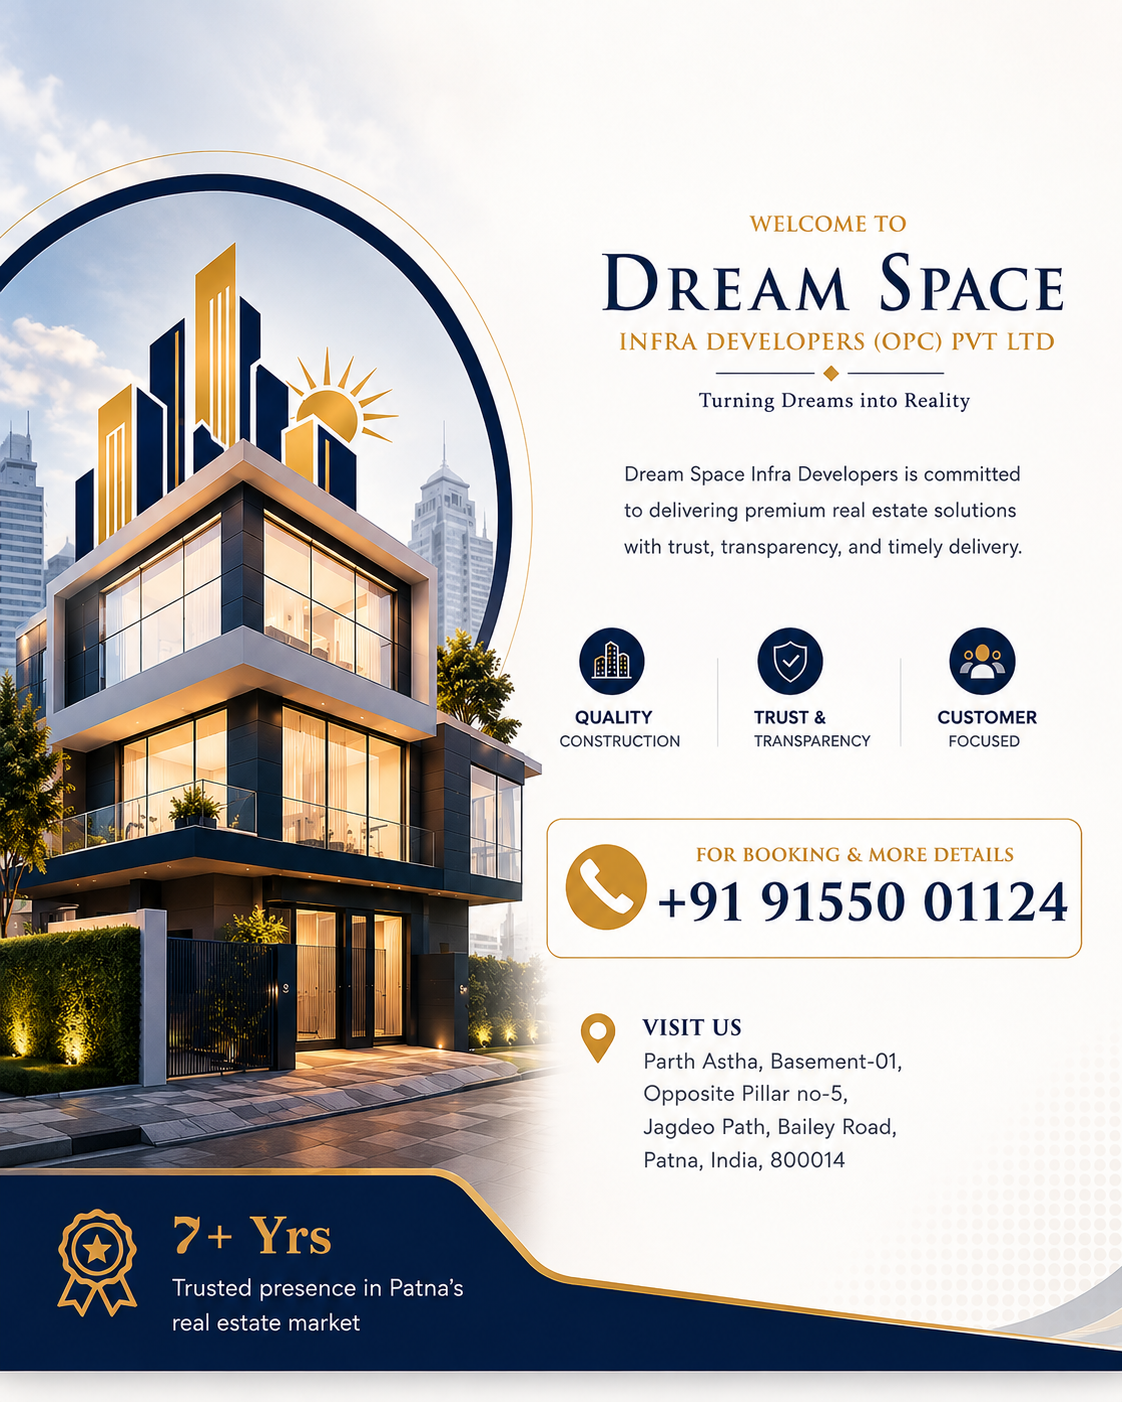
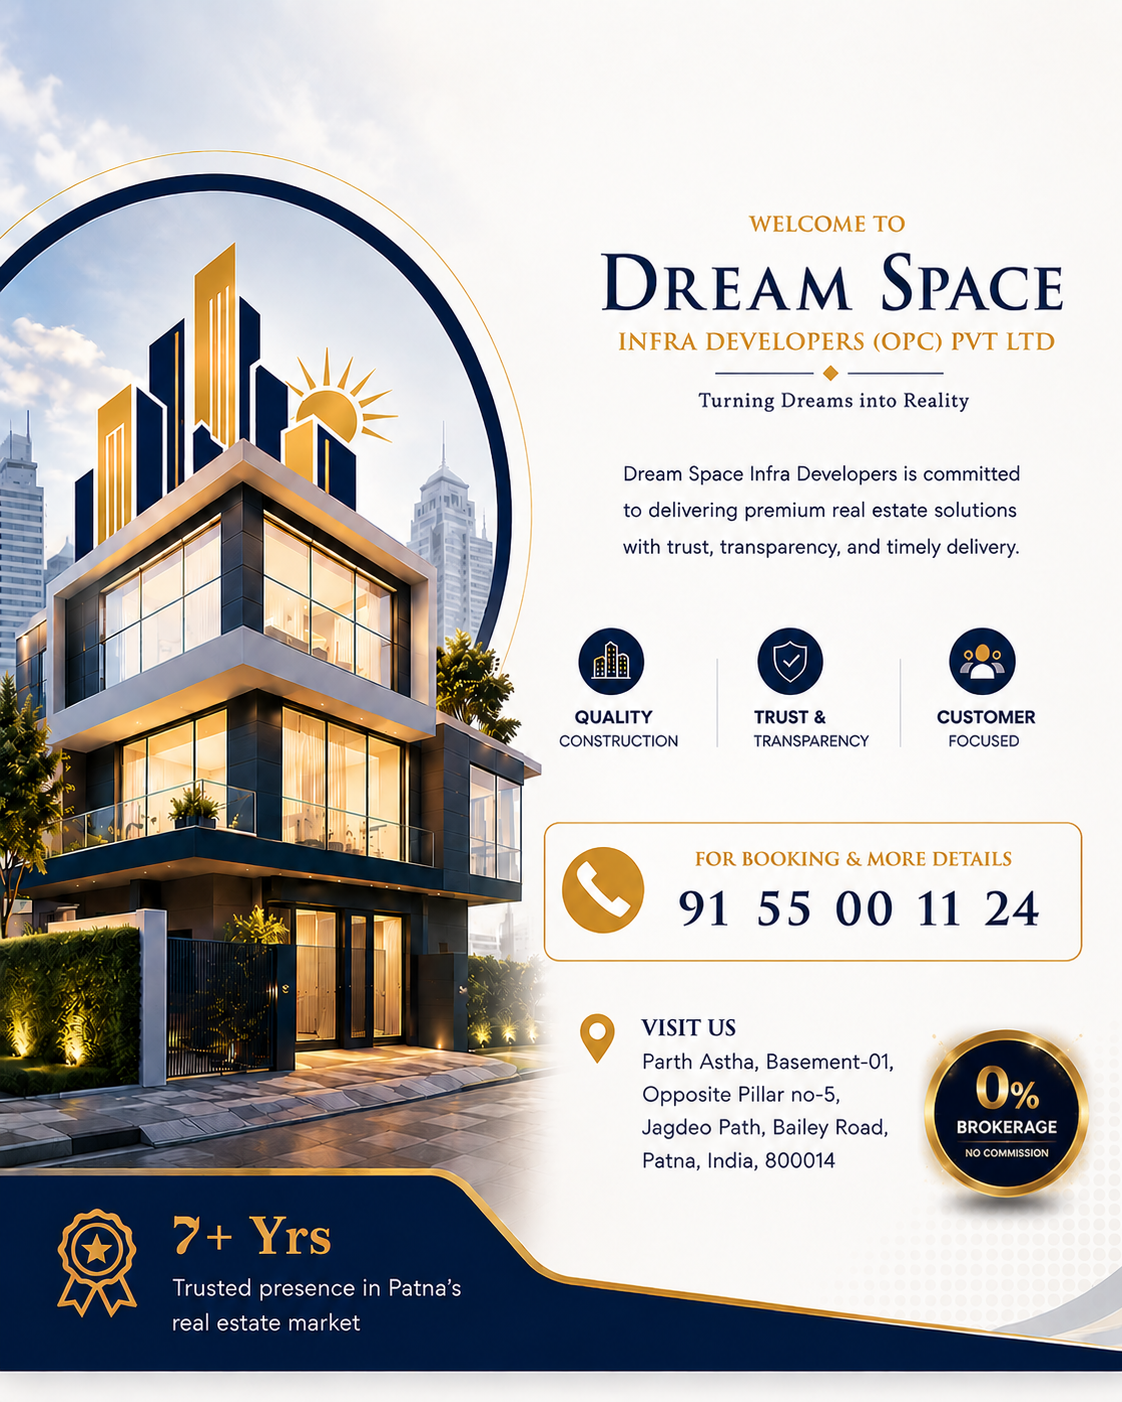
Adding Exclusive Partners

diff --git a/components/OurTeam.tsx b/components/OurTeam.tsx
@@ -7,18 +7,19 @@ export default function OurTeam() {
       name: "S.K Maurya",
       title: "Founder & CEO",
     },
-     {
-      id: 2,
-      avatar: "/team/team2.jpeg",
-      name: "John Sharma",
-      title: "Sales Head",
-    },
     {
-      id: 3,
+      id: 2,
       avatar: "/team/team3.jpeg",
       name: "Er. Satya Prakash",
       title: "Director",
     },
+     {
+      id: 3,
+      avatar: "/team/team2.jpeg",
+      name: "John Sharma",
+      title: "Sales Head",
+    },
+   
    
     {
       id: 4,
@@ -27,18 +28,48 @@ export default function OurTeam() {
       name: "Rahul Dev",
     },
   ];
+
+   const exclusive = [
+    {
+      id: 1,
+      avatar: "/exclusivepartners/emerald.jpg",
+      name: "Emerald Estates",
+      // title: "Founder & CEO",
+    },
+    {
+      id: 2,
+      avatar: "/exclusivepartners/infinity.png",
+      name: "Vastitude Construction LLP",
+      // title: "Director",
+    },
+      {
+      id: 3,
+      avatar:"/exclusivepartners/Sunrise.png",
+      name: "Sunrise Developers",
+      // title: "Director",
+    },
+   
+    // {
+    //   id: 4,
+    //   avatar: "/exclusivepartners/vedanta.jpg",
+    //   name: "Vedanta Homes",
+    //   // title: "Director",
+    // },
+     {
+      id: 5,
+      avatar: "/exclusivepartners/manorath.png",
+      name: "Manorath Construction",
+      // title: "Director",
+    },
+  ];
   return (
     <section className="w-full bg-[#faf9f6] px-5 py-20 md:px-10 lg:px-20">
       {" "}
       <div className="mx-auto max-w-7xl">
         {" "}
-        {/* Heading */}{" "}
         <div className="mb-14 text-center">
           {" "}
-          {/* <p className="mb-3 text-sm font-semibold uppercase tracking-[0.25em] text-[#b08a45]">
-            {" "}
-            Meet Our People{" "}
-          </p>{" "} */}
+         
           <h2 className="text-3xl font-semibold tracking-tight text-[#1c1c1c] md:text-5xl">
             {" "}
             Our Team{" "}
@@ -59,7 +90,63 @@ export default function OurTeam() {
               className="group flex flex-col items-center text-center"
             >
               {" "}
-              {/* Circle Image */}{" "}
+              <div className="relative mb-6">
+                {" "}
+                <div className="absolute -inset-2 rounded-full border border-[#b08a45]/30 transition-all duration-500 group-hover:rotate-6 group-hover:border-[#b08a45]" />{" "}
+                <div className="relative h-32 w-32 overflow-hidden rounded-full border-4 border-white shadow-lg md:h-40 md:w-40">
+                  {" "}
+                  <img
+                    src={member.avatar}
+                    alt={member.name}
+                    className="h-full w-full object-cover object-center transition-transform duration-500 group-hover:scale-110"
+                  />{" "}
+                </div>{" "}
+              </div>{" "}
+              {/* Name */}{" "}
+              <h3 className="text-base font-semibold text-[#1c1c1c] md:text-lg">
+                {" "}
+                {member.name}{" "}
+              </h3>{" "}
+              {/* Position */}{" "}
+              <p className="mt-1 text-sm font-medium text-[#b08a45]">
+                {" "}
+                {member.title}{" "}
+              </p>{" "}
+              {/* Small Line */}{" "}
+              <div className="mt-4 h-[2px] w-8 rounded-full bg-[#b08a45] transition-all duration-300 group-hover:w-14" />{" "}
+            </div>
+          ))}{" "}
+        </div>{" "}
+      </div>{" "}
+      
+
+
+      {/* -----------------------------------------------Exclusive partner  */}
+       <div className="mx-auto max-w-7xl">
+        {" "}
+        <div className="my-14 text-center">
+          {" "}
+         
+          <h2 className="text-3xl font-semibold tracking-tight text-[#1c1c1c] md:text-5xl">
+            {" "}
+            Exclusive Marketing Partners
+          </h2>{" "}
+          {/* <p className="mx-auto mt-4 max-w-2xl text-sm leading-6 text-gray-600 md:text-base">
+            {" "}
+            Meet the professionals behind Dream Space Infra Developers,
+            committed to making your property journey simple and
+            transparent.{" "}
+          </p>{" "} */}
+        </div>{" "}
+        {/* Team */}{" "}
+        <div className="grid grid-cols-2 gap-8 sm:grid-cols-2 md:grid-cols-4 md:gap-10">
+          {" "}
+          {exclusive.map((member) => (
+            <div
+              key={member.id}
+              className="group flex flex-col items-center text-center"
+            >
+              {" "}
               <div className="relative mb-6">
                 {" "}
                 <div className="absolute -inset-2 rounded-full border border-[#b08a45]/30 transition-all duration-500 group-hover:rotate-6 group-hover:border-[#b08a45]" />{" "}

diff --git a/app/page.tsx b/app/page.tsx
@@ -8,7 +8,6 @@ import { site } from "@/lib/site";
 import Policy from "@/components/Policy";
 import OurTeam from "@/components/OurTeam";
 
-
 export default function Home() {
   return (
     <main className="w-full min-w-0 overflow-x-clip">
@@ -24,41 +23,29 @@ export default function Home() {
         badgeLabel="Trusted presence in Patna's real estate market"
         eyebrow="Who We Are"
         heading="A trusted real estate company in Patna."
-        paragraph="Dream Space Infra Developers (OPC) Pvt Ltd is a trusted real estate marketing company dedicated to turning your dreams into reality. Whether you're searching for a sweet home to settle into, or a profitable property to invest in, we bring verified listings, honest guidance and end-to-end support to every deal."
+        paragraph="Dream Space Infra Developers Pvt Ltd की पूरी टीम हमेशा यह कोशिश करती है कि आपको बेहतर, भरोसेमंद और साफ-सुथरी Property Deal मिले।
+
+हमारा उद्देश्य सिर्फ Property बेचना नहीं, बल्कि आपकी जरूरत और बजट के अनुसार सही Property का सही विकल्प देना है।
+
+ हमारी सेवाएँ Dream Space Infra Developers Pvt Ltd की Policy है कि Customers से कोई Commission / Brokerage Charge नहीं लिया जाता।
+
+अगर आप Flat, Makan, Plot या Investment के लिए अच्छी और भरोसेमंद Deal तलाश रहे हैं, तो हमसे संपर्क करें।"
         features={[
-          "Residential & commercial property expertise",
-          "Curated properties across Patna",
-          "Professional support from enquiry to site visit",
-          "Customer-first & transparent property guidance",
+          "Flat & Apartment",
+          "Independent House / Makan",
+          "Residential & Commercial Plot",
+          "Property Investment",
+          "Best Property Deals in Patna"
         ]}
         ctaLabel="Talk to Our Team"
         ctaHref={site.whatsapp}
       />
+      
 
-      {/* <SplitSection
-       
-        reverse
-        bgClassName="bg-ivory"
-        imageSrc="/images/flat2.png"
-        imageAlt="Featured flat listing by Dream Space"
-        badgeValue="Ready"
-        badgeLabel="Move-in ready homes across prime Patna locations"
-        eyebrow="Featured Listing"
-        heading="Spacious flats, built for everyday living."
-        paragraph="Explore our current listing of well-planned apartments in Patna's growing neighbourhoods — designed for comfortable family living and strong long-term value. Every listing is personally verified by our team before it reaches you."
-        features={[
-          "2 & 3 BHK options available",
-          "Prime, well-connected locations",
-          "Clear title & documentation support",
-        ]}
-        ctaLabel="Enquire About This Listing"
-        ctaHref={site.whatsapp}
-      /> */}
+     
 
-      {/* <ImageSlider /> */}
-
-      <OurTeam/>
-      <Policy/>
+      <OurTeam />
+      <Policy />
 
       <Footer />
 

diff --git a/components/SplitSection.tsx b/components/SplitSection.tsx
@@ -34,10 +34,42 @@ export default function SplitSection({
   ctaHref,
 }: SplitSectionProps) {
   return (
+    // <section
+    //   id={id}
+    //   className={`overflow-hidden lg:py-20 ${bgClassName}`}
+    // >
     <section
       id={id}
-      className={`overflow-hidden lg:py-20 ${bgClassName}`}
+      className={`relative overflow-hidden lg:py-20 ${bgClassName}`}
     >
+
+      {/* floating Brokerage  */}
+<div className="pointer-events-none absolute right-3 top-1/2 z-20 -translate-y-1/2 sm:right-6 lg:right-2">
+  <div className="relative flex h-24 w-24 items-center justify-center rounded-full border-2 border-gold bg-navy shadow-[0_0_25px_rgba(212,175,55,0.65)] animate-pulse sm:h-18 sm:w-18">
+
+    {/* Outer glowing ring */}
+    <div className="absolute inset-[-8px] rounded-full border border-gold/50 animate-ping" />
+
+    {/* Content */}
+    <div className="relative z-10 text-center">
+      <span className="block text-2xl font-extrabold leading-none text-gold sm:text-3xl">
+        0%
+      </span>
+
+      <span className="mt-1 block text-[0.55rem] font-bold tracking-[0.15em] text-white sm:text-[0.6rem]">
+        BROKERAGE
+      </span>
+
+      {/* <span className="mt-1 block text-[0.45rem] font-semibold tracking-[0.12em] text-gold-light sm:text-[0.1rem]">
+        NO COMMISSION
+      </span> */}
+    </div>
+
+  </div>
+</div>
+      {/* floating Brokerage  */}
+
+
       <div
         className={`mx-auto grid w-full max-w-[1180px] items-center gap-16 px-4 sm:px-6 md:px-8 lg:gap-20 ${reverse ? "md:grid-cols-[1fr_0.85fr]" : "md:grid-cols-[0.85fr_1fr]"}`}
       >
@@ -68,9 +100,8 @@ export default function SplitSection({
         </Reveal>
 
         <Reveal className={reverse ? "lg:order-1" : "lg:order-2"}>
-          
           <p className="eyebrow">{eyebrow}</p>
-          <h2 className="mt-4 max-w-2xl font-display text-[1.8rem] font-semibold leading-tight text-navy sm:text-[2.6rem]">
+          <h2 className="mt-4 max-w-2xl font-display text-[1.8rem] font-semibold leading-tight text-navy sm:text-[1.6rem]">
             {heading}
           </h2>
 
